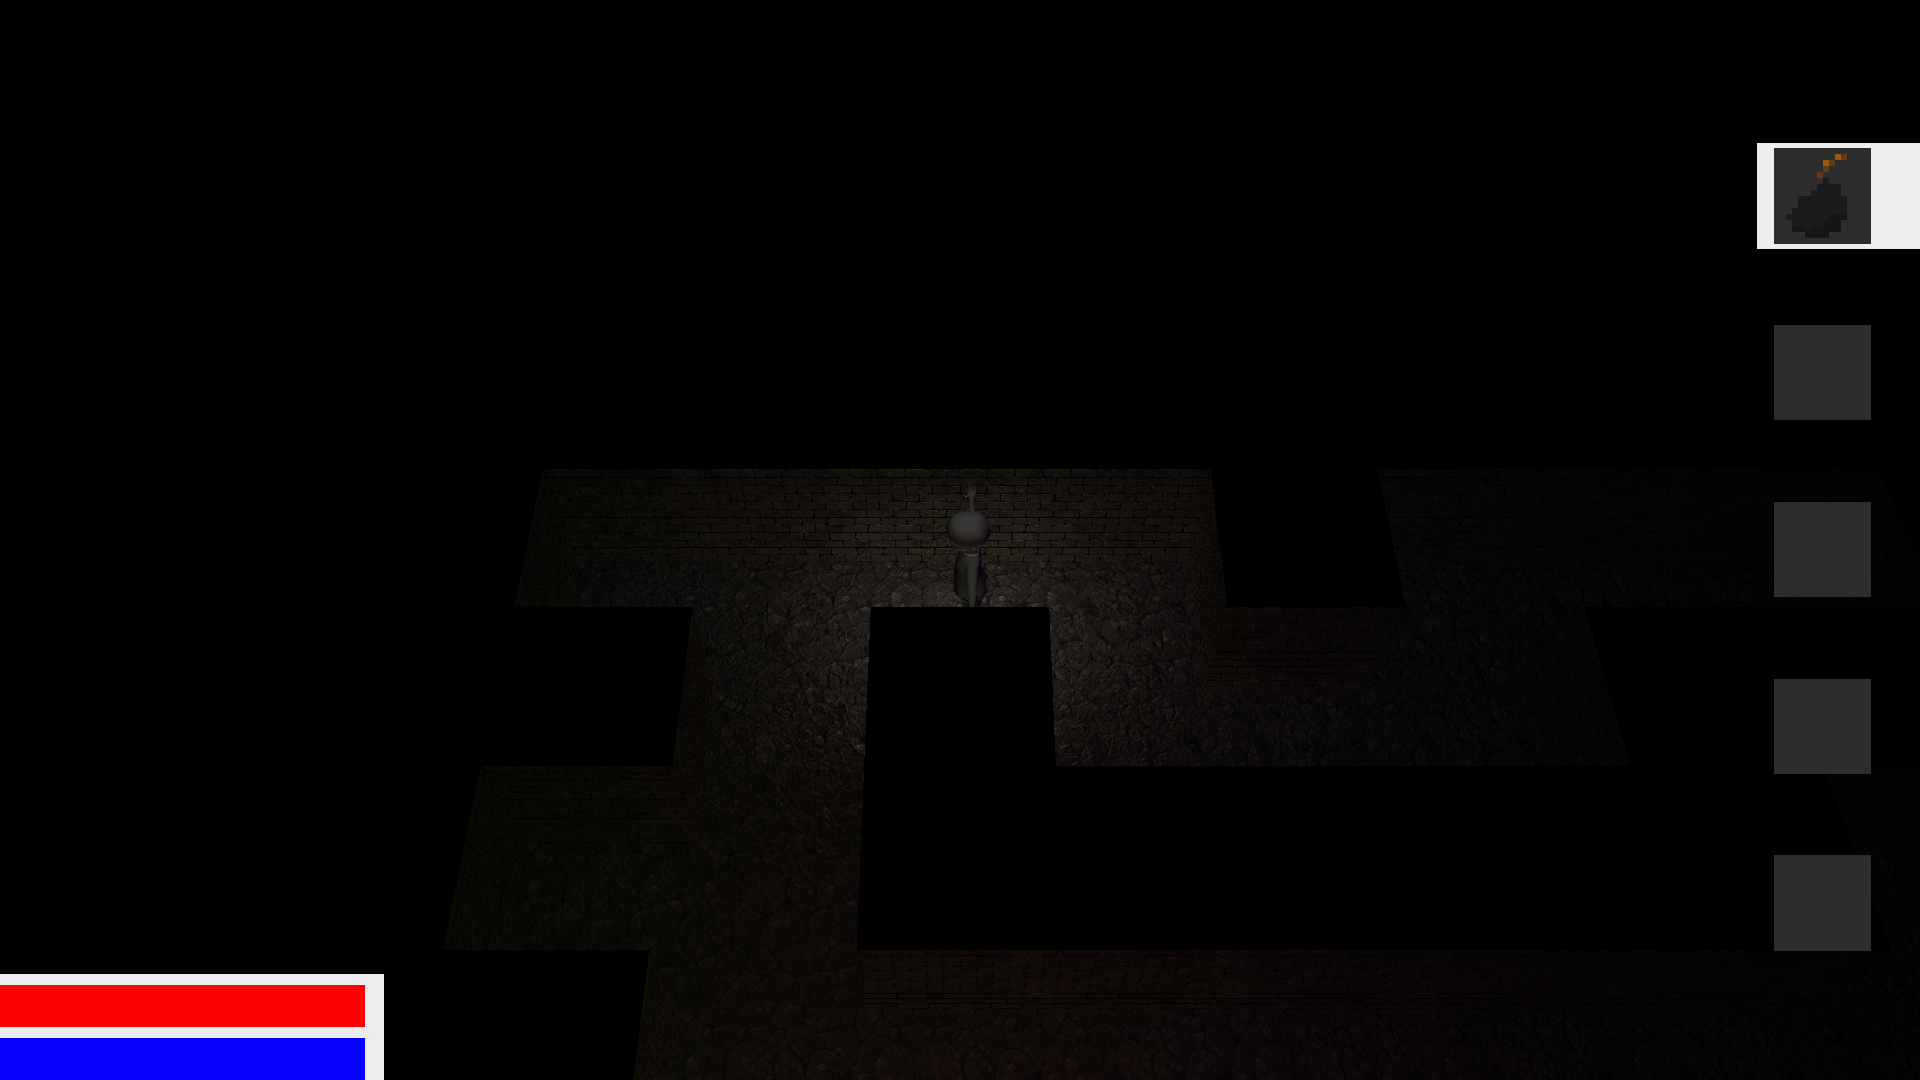
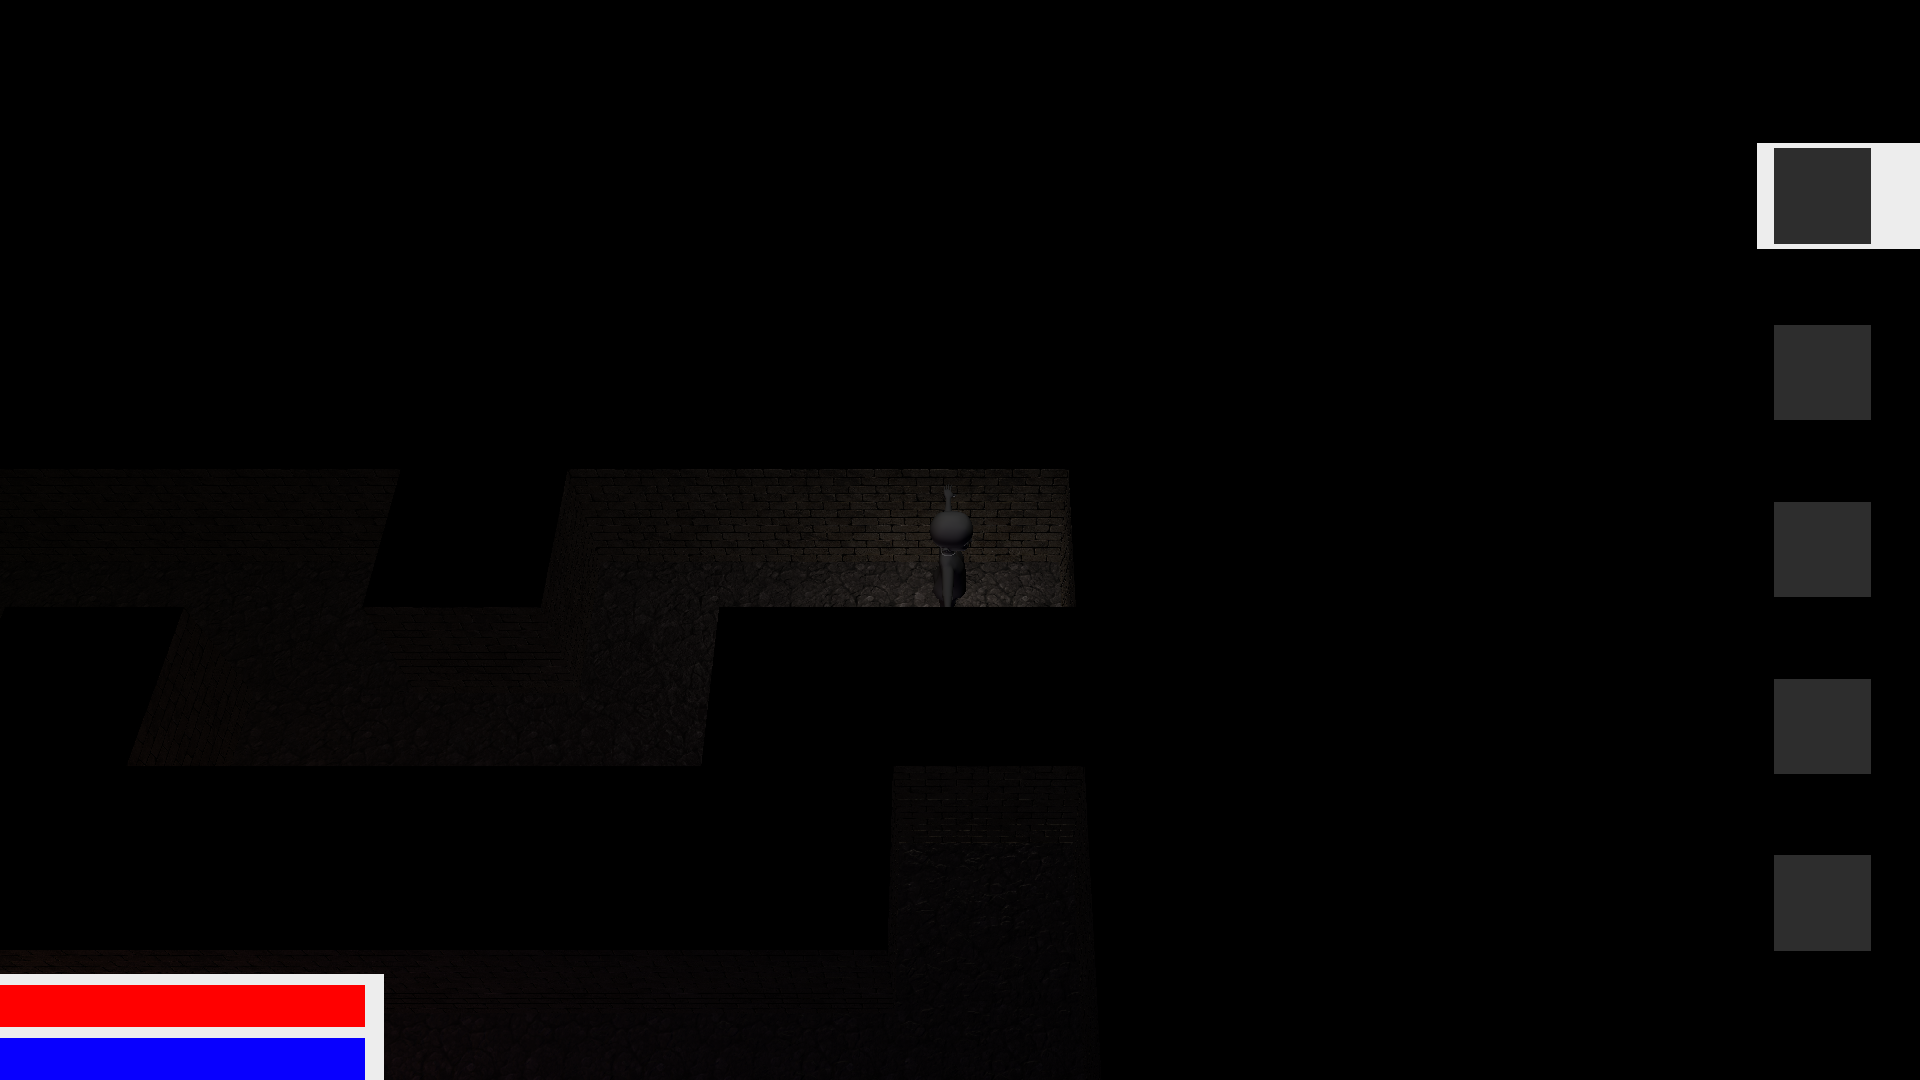
Boots are now fully functional, you can (for now) add boots using the N button in the selected slot

Changed region(s): [[0.4688, 0.4583, 0.625, 0.7028], [0.375, 0.55, 0.4688, 0.7028]]

diff --git a/src/Main/java/Main/Input/InGameController.java b/src/Main/java/Main/Input/InGameController.java
@@ -1,5 +1,6 @@
 package Main.Input;
 
+import Levels.Assets.Items.Item;
 import Main.GameState;
 
 import static Graphics.IO.ScreenShot.takeScreenShot;
@@ -46,6 +47,11 @@ public class InGameController extends Controller {
         // we only check for movement inputs if movement is allowed
         if ( movementCounter == 0 ) {
             checkMovement();
+        } else if (movementCounter > 0) {
+            // move the player with the specified speed and direction
+            world.movePlayer( speed, vertical );
+            // decrement the amount of movement frames left
+            movementCounter--;
         }
     }
 
@@ -58,6 +64,10 @@ public class InGameController extends Controller {
             player.setSelectedItem( player.getSelectedItem() - 1 );
         } else if ( window.buttonClicked(GLFW_KEY_DOWN) ) {
             player.setSelectedItem( player.getSelectedItem() + 1 );
+        }
+
+        if (window.buttonClicked(GLFW_KEY_N)) {
+            player.addItem(Item.getItemById(Item.BOOT));
         }
 
         // set a cooldown of 5 frames, so the player has better control over what item he wants to select
@@ -77,32 +87,32 @@ public class InGameController extends Controller {
             if ( maze.canMoveUp() ) {
                 maze.moveUp();
 
-                movementCounter = MOVEMENT_CAP;
-                speed = 1f / (float) MOVEMENT_CAP;
+                movementCounter = player.getSpeed();
+                speed = 1f / (float) player.getSpeed();
                 vertical = true;
             }
         } else if ( window.buttonClicked( GLFW_KEY_A ) ) {
             if ( maze.canMoveLeft() ) {
                 maze.moveLeft();
 
-                movementCounter = MOVEMENT_CAP;
-                speed = -1f / (float) MOVEMENT_CAP;
+                movementCounter = player.getSpeed();
+                speed = -1f / (float) player.getSpeed();
                 vertical = false;
             }
         } else if ( window.buttonClicked( GLFW_KEY_S ) ) {
             if ( maze.canMoveDown() ) {
                 maze.moveDown();
 
-                movementCounter = MOVEMENT_CAP;
-                speed = -1f / (float) MOVEMENT_CAP;
+                movementCounter = player.getSpeed();
+                speed = -1f / (float) player.getSpeed();
                 vertical = true;
             }
         } else if ( window.buttonClicked( GLFW_KEY_D ) ) {
             if ( maze.canMoveRight() ) {
                 maze.moveRight();
 
-                movementCounter = MOVEMENT_CAP;
-                speed = 1f / (float) MOVEMENT_CAP;
+                movementCounter = player.getSpeed();
+                speed = 1f / (float) player.getSpeed();
                 vertical = false;
             }
         }

diff --git a/src/Main/java/Main/Input/MainController.java b/src/Main/java/Main/Input/MainController.java
@@ -1,6 +1,7 @@
 package Main.Input;
 
 import Graphics.IO.Window;
+import Graphics.Rendering.World;
 import Levels.Framework.Maze;
 import Main.GameState;
 
@@ -24,8 +25,9 @@ public class MainController {
         startUpCooldown = 10;
     }
 
-    public MainController(Maze maze, Window window) {
+    public MainController(Maze maze, World world, Window window) {
         Controller.setWindow( window );
+        Controller.setWorld( world );
         Controller.setMaze( maze );
 
         mainMenuController = new MainMenuController();
@@ -55,37 +57,21 @@ public class MainController {
         }
     }
 
-    /**
-     * reduces the cooldown left on moving by one
-     */
-    public void decrementMovementCounter() {
-        gameController.decrementMovementCounter();
-    }
-
-    /**
-     * returns the cooldown left on moving
-     *
-     * @return {@code movementCounter}
-     */
-    public int getMovementCounter() {
-        return gameController.getMovementCounter();
-    }
-
-    /**
-     * returns the speed with which the player is currently moving
-     *
-     * @return {@code speed}
-     */
-    public float getSpeed() {
-        return gameController.getSpeed();
-    }
-
-    /**
-     * returns whether the current movement is vertical or not
-     *
-     * @return {@code vertical}
-     */
-    public boolean isVertical() {
-        return gameController.isVertical();
-    }
+//    /**
+//     * returns the speed with which the player is currently moving
+//     *
+//     * @return {@code speed}
+//     */
+//    public float getSpeed() {
+//        return gameController.getSpeed();
+//    }
+//
+//    /**
+//     * returns whether the current movement is vertical or not
+//     *
+//     * @return {@code vertical}
+//     */
+//    public boolean isVertical() {
+//        return gameController.isVertical();
+//    }
 }

diff --git a/src/Main/java/Levels/Characters/Player.java b/src/Main/java/Levels/Characters/Player.java
@@ -24,16 +24,13 @@ public class Player extends Character {
     private Item[] inventory;
     private int selectedItem = 0;
 
-    private Player(int hp, int mp, OBJModel model) {
-        super(hp,mp,model);
+    private Player(int hp, int mp, int speed, OBJModel model) {
+        super(hp, mp, speed, model);
 
         // start with an empty inventory of max size 5
         inventory = new Item[5];
 
     }
-
-
-
 
     public static Player getInstance() {
         if (player == null) {
@@ -52,7 +49,7 @@ public class Player extends Character {
                 }
 
                 // Instantiate the player
-                player = new Player(100, 100,model);
+                player = new Player(100, 100, 20,model);
             } catch (IOException e) {
                 e.printStackTrace();
             }
@@ -90,6 +87,26 @@ public class Player extends Character {
 
     public void setMaxMana(int max_mana) {
         this.max_mana = max_mana;
+    }
+
+    /**
+     * the player class overrides the getspeed to take the boots in the inventory into account
+     *
+     * @return the speed of the player, with boots
+     */
+    @Override
+    public int getSpeed() {
+        // check the amount of boots the player gathered
+        double bootCount = 1;
+        for (Item item : inventory) {
+            if (item != null && item.getId() == Item.BOOT) {
+                bootCount++;
+            }
+        }
+
+        int modifier = (int) Math.round( 1.25 * bootCount );
+
+        return super.getSpeed() / modifier;
     }
 
     /**

diff --git a/src/Main/java/Levels/Characters/Character.java b/src/Main/java/Levels/Characters/Character.java
@@ -22,6 +22,9 @@ public abstract class Character {
     private float gamePositionX;
     private float gamePositionY;
 
+    // the amount of frames needed to move one tile
+    private int speed;
+
     // the values for max health and mana
     int max_health;
     int max_mana;
@@ -30,7 +33,7 @@ public abstract class Character {
     int cur_health;
     int cur_mana;
 
-    public Character(int max_health, int max_mana, OBJModel model) {
+    public Character(int max_health, int max_mana, int speed, OBJModel model) {
         this.model = model;
         position = new Vector3f(0, 0f, 1.5f);
         scale = 1.2f;
@@ -45,6 +48,8 @@ public abstract class Character {
         this.max_mana = max_mana;
         cur_health = max_health;
         cur_mana = max_mana;
+
+        this.speed = speed;
     }
 
 
@@ -121,6 +126,14 @@ public abstract class Character {
 
     public float getGamePositionY() {
         return gamePositionY;
+    }
+
+    public int getSpeed() {
+        return speed;
+    }
+
+    public void setSpeed(int speed) {
+        this.speed = speed;
     }
 
     public void setGamePositionX(float gamePositionX) {

diff --git a/src/Main/java/Levels/Assets/Items/Item.java b/src/Main/java/Levels/Assets/Items/Item.java
@@ -9,12 +9,25 @@ public class Item {
     // the item id will specify the location in the items array
     private static final Item[] items = new Item[10];
 
+    public static final int EMPTY = 0;
     private static final Item emptyItem = new Item("src/Main/java/Textures/GUIElements/item_background.png");
+
+    public static final int HEART = 1;
     private static final Item heart = new Item("src/Main/java/Textures/Items/heart.png");
+
+    public static final int MANA = 2;
     private static final Item mana = new Item("src/Main/java/Textures/Items/heart.png");
+
+    public static final int BOOT = 3;
     private static final Item boot = new Item("src/Main/java/Textures/Items/boot.png");
+
+    public static final int COIN = 4;
     private static final Item coin = new Item("src/Main/java/Textures/Items/coin.png");
+
+    public static final int H_POTION = 5;
     private static final Item hPot = new Item("src/Main/java/Textures/Items/health_potion.png");
+
+    public static final int M_POTION = 6;
     private static final Item mPot = new Item("src/Main/java/Textures/Items/mana_potion.png");
 
     private final int id;

diff --git a/src/Main/java/Main/Main.java b/src/Main/java/Main/Main.java
@@ -71,7 +71,7 @@ public class Main {
         NewGameMenu newGameMenu = new NewGameMenu();
 
         // and initialize the controller for input checking
-        MainController mainController = new MainController(maze, window);
+        MainController mainController = new MainController(maze, world, window);
 
         // Stuff to keep track of the fps
         double frame_time = 0;
@@ -112,12 +112,6 @@ public class Main {
 
                 // check the inputs done by the player
                 mainController.checkInputs();
-
-                // if the player still has movement frames left, execute those by moving the player
-                if ( mainController.getMovementCounter() > 0 ) {
-                    world.movePlayer( mainController.getSpeed(), mainController.isVertical() );
-                    mainController.decrementMovementCounter();
-                }
 
                 // check which state we are in, so we render the correct thing
                 if (state == GameState.MAIN_MENU) {

diff --git a/src/Main/java/Main/Input/Controller.java b/src/Main/java/Main/Input/Controller.java
@@ -1,11 +1,13 @@
 package Main.Input;
 
 import Graphics.IO.Window;
+import Graphics.Rendering.World;
 import Levels.Characters.Player;
 import Levels.Framework.Maze;
 
 abstract class Controller {
     static Window window;
+    static World world;
     static Maze maze;
 
     static Player player = Player.getInstance();
@@ -30,6 +32,15 @@ abstract class Controller {
      */
     public static void setMaze(Maze maze) {
         Controller.maze = maze;
+    }
+
+    /**
+     * sets the world to apply changes to
+     *
+     * @param world the world the controller is used on
+     */
+    public static void setWorld(World world) {
+        Controller.world = world;
     }
 
     /**

diff --git a/src/Main/java/Graphics/Rendering/World.java b/src/Main/java/Graphics/Rendering/World.java
@@ -201,8 +201,6 @@ public class World {
         // calculate the amount of movement in the x and y direction
         xPlayer += vertical ? 0f : speed;
         yPlayer += vertical ? -speed : 0f;
-        Vector3f playerPos = this.player.getPosition();
-        playerPos.z = 1.5f;
 
         // upon moving the player, we also have to move the camera
         adjustCamera(speed * 2f, vertical);

diff --git a/src/Main/java/Levels/Characters/EyeBall.java b/src/Main/java/Levels/Characters/EyeBall.java
@@ -4,6 +4,6 @@ import Graphics.OBJModel;
 
 public class EyeBall extends Character {
     public EyeBall(int max_health, int max_mana, OBJModel model) {
-        super(max_health, max_mana, model);
+        super(max_health, max_mana, 15, model);
     }
 }
